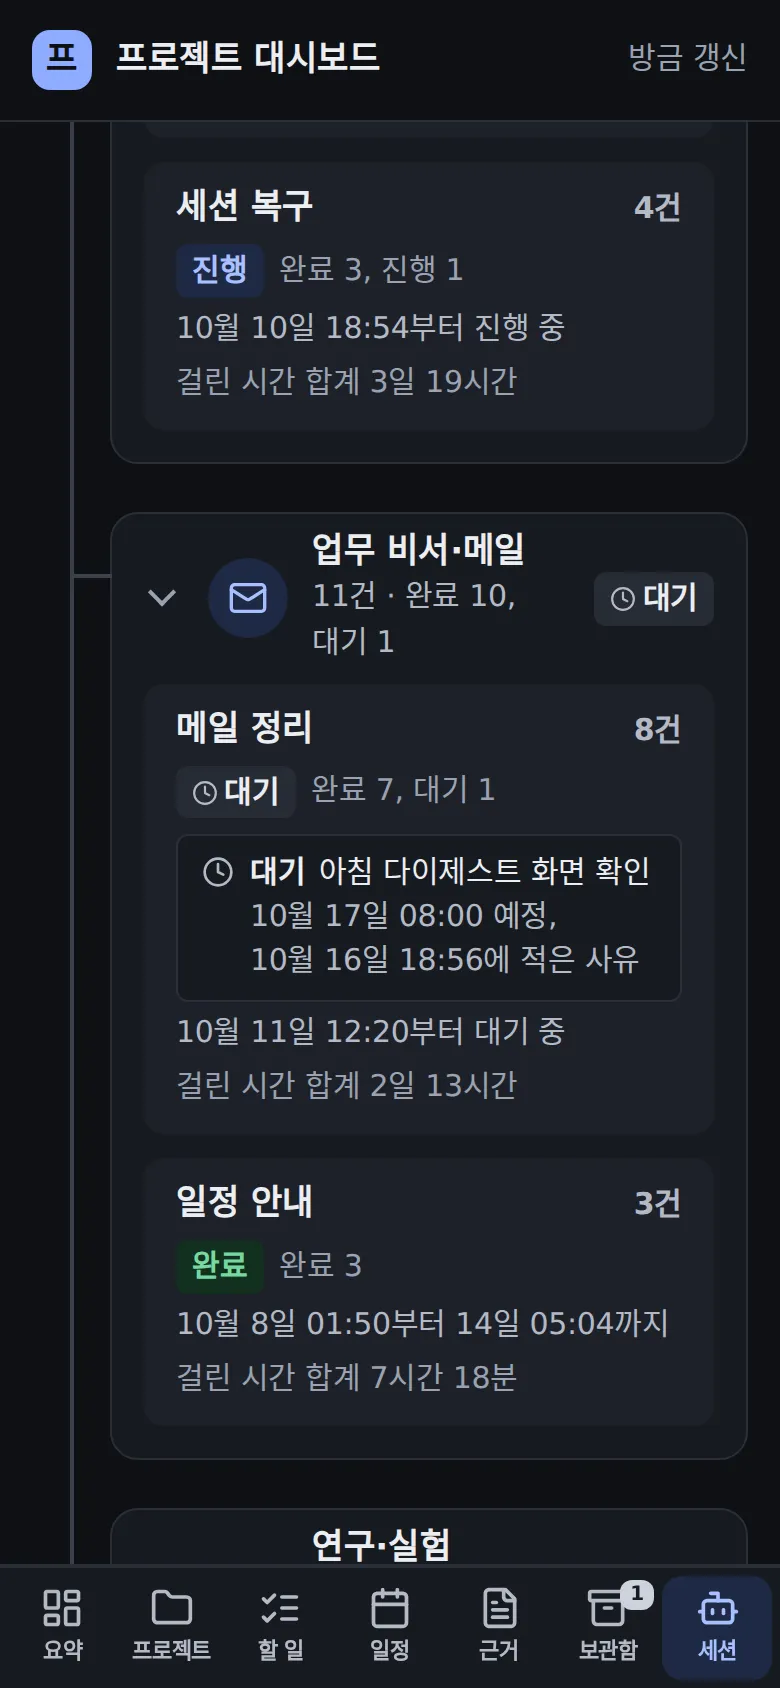
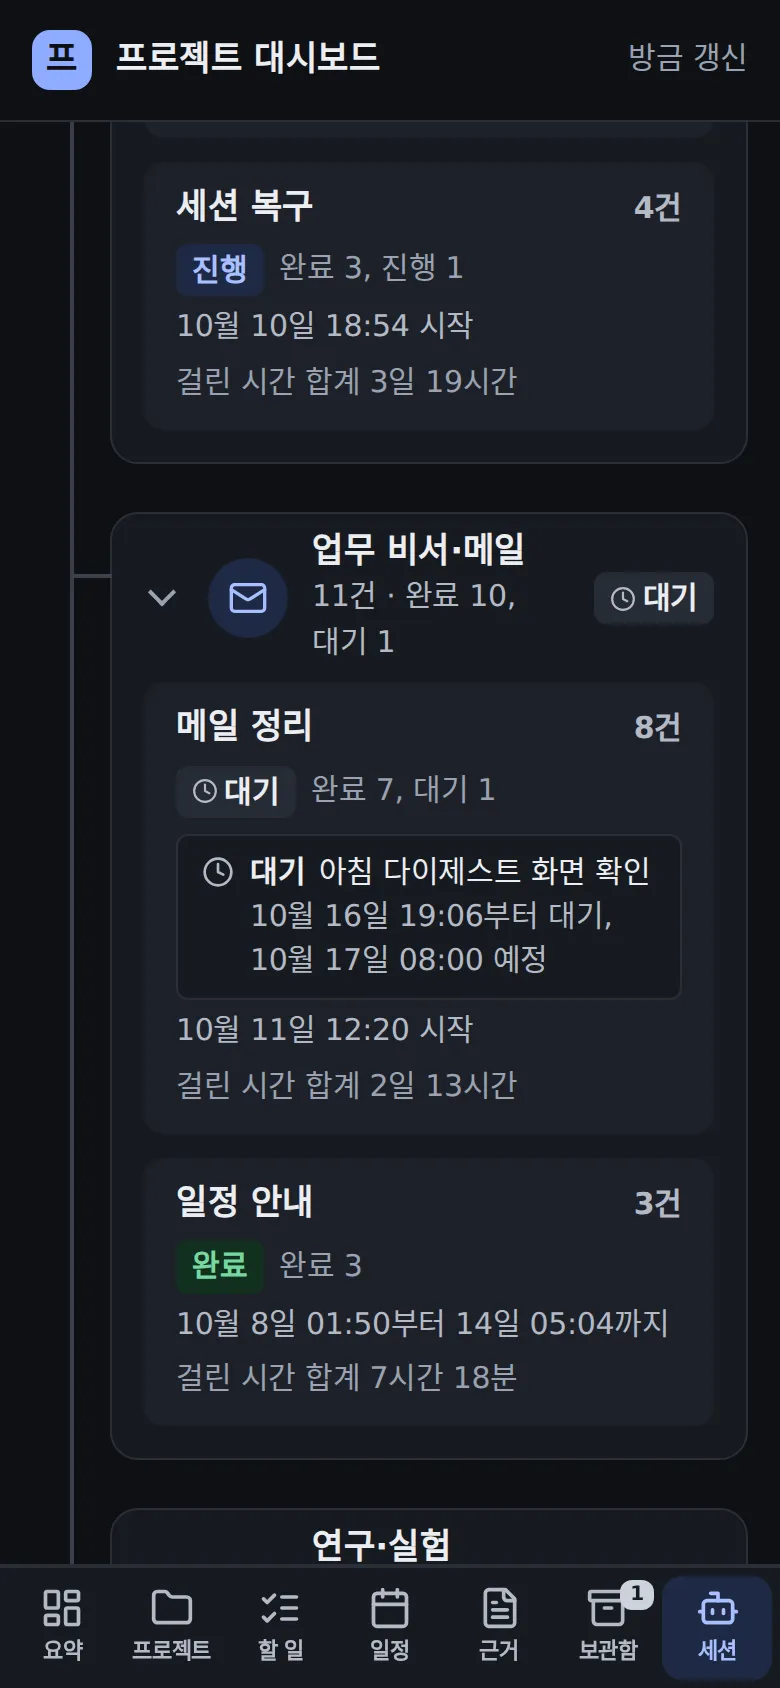
docs(project-board): the 세션 tab group line is a start time, the wait note says since when; captures retaken

diff --git a/docs/기능소개/세션-탭-대기와-막힘.md b/docs/기능소개/세션-탭-대기와-막힘.md
@@ -2,7 +2,8 @@
 
 ## 무엇을
 대시보드 세션 탭에서 사람이나 정해진 시각을 기다리며 쉬어 둔 작업 레인을 「멈춤」이 아니라 **「대기」**(시계 아이콘, 중립색)로 보여 준다.
-그 레인이 든 카드에는 무엇을 언제 기다리는지 한 줄이 붙는다. 예: 「대기 아침 다이제스트 화면 확인 · 10월 17일 08:00 예정, 10월 16일 18:56에 적은 사유」.
+그 레인이 든 카드에는 무엇을 언제 기다리는지 한 줄이 붙는다. 예: 「대기 아침 다이제스트 화면 확인 · 10월 16일 18:56부터 대기, 10월 17일 08:00 예정」.
+카드의 기간 줄은 상태 말 없이 「10월 11일 12:20 시작」처럼 묶음이 언제 시작했는지만 말한다.
 작업 창이 오류나 입력 대기로 멈췄거나 꺼진 레인만 **「막힘」**(빨강)이고, 그 이유도 한 줄로 붙는다.
 묶음 머리와 개요의 건수도 「완료 12, 대기 1」, 「막힘 1」로 따로 센다.
 
@@ -20,9 +21,10 @@
 
 ## 사용 시나리오
 - 레인이 다음 날 08:06 다이제스트 확인을 기다리며 쉬고 있다. 세션 탭을 열면 「업무 비서·메일」 묶음 머리에 시계와 「대기」가 있다.
-  펼치면 「메일 정리·전달」 카드에 「대기 기관메일 다이제스트 라이브 확인 · 10월 17일 08:06 예정, 10월 16일 21:57에 적은 사유」가 보인다.
-  카드의 기간 줄은 「…부터 대기 중」이다.
-- 예정 시각이 지나도 레인이 그대로면 그 줄에 「시각 지남」이 붙는다. 사유가 오래돼 지금과 다를 수 있으니 사유를 적은 시각도 함께 나온다.
+  펼치면 「메일 정리·전달」 카드에 「대기 기관메일 다이제스트 라이브 확인 · 10월 16일 21:57부터 대기, 10월 17일 08:06 예정」이 보인다.
+  카드의 기간 줄은 「10월 12일 09:12 시작」이라, 그때부터 기다린 것처럼 읽히지 않는다.
+- 예정 시각이 지나도 레인이 그대로면 그 줄에 「시각 지남」이 붙는다. 「…부터 대기」는 그 사유를 적고 쉬어 둔 시각이라, 사유가 오래돼
+  지금과 다를 수 있음도 그 시각으로 알 수 있다.
 - 영어로 적은 사유는 정해진 한국어 문구로 바뀐다: 「소유자 승인(✅), v1.40.0 릴리스 카드」, 「소유자 결정, 질문 Q12」, 「소유자 지시로 보류」.
 - 작업 창이 오류로 멈추면 그 묶음 머리가 빨간 「막힘」이 되고 카드에 「막힘 작업 창이 오류로 멈췄습니다」가 붙는다.
   자기 감시를 기다리며 턴을 끝낸 레인은 막힘이 아니라 진행이다.

diff --git a/docs/guide/프로젝트-대시보드.md b/docs/guide/프로젝트-대시보드.md
@@ -200,8 +200,10 @@ MailOn 런타임의 `data/` 는 배포본에서 공유 상태 디렉터리(`mail
 줄지 않으며, 갈래마다 분야·플랫폼·서비스 묶음이 접힌 카드(머리 52px)로 시작하고 머리에 건수와 상태 글자가 이미 있다.
 상태는 다른 탭과 같은 배지(완료 초록·진행 파랑·미완 빨강·확인 대기 테두리)이고, 레인에는 둘이 더 있다(2026-10-16 소유자
 지적 「왜 멈춤으로 되어 있어?」). 사람이나 정해진 시각을 기다리며 쉬어 둔 레인(dori `paused`)은 **대기** — 시계 아이콘의 중립색
-배지이고 문제가 아니다 — 이며, 그 레인이 든 카드 안에 한 줄씩 「대기 아침 다이제스트 화면 확인 · 10월 17일 08:00 예정, 10월
-16일 18:56에 적은 사유」처럼 무엇을·언제까지 기다리는지와 그 사유를 적은 시각이 붙는다(사유가 오래돼 지금과 다를 수 있어서다).
+배지이고 문제가 아니다 — 이며, 그 레인이 든 카드 안에 한 줄씩 「대기 아침 다이제스트 화면 확인 · 10월 16일 18:56부터 대기,
+10월 17일 08:00 예정」처럼 무엇을·언제부터·언제까지 기다리는지가 붙는다. 「부터」는 그 사유를 적고 쉬어 둔 시각이다(사유가
+오래돼 지금과 다를 수 있어서다). 카드의 기간 줄은 상태 말 없이 시각만 말한다 — 열린 묶음은 「10월 11일 12:20 시작」, 다 끝난 묶음은
+「…부터 …까지」. 묶음 시작 시각에 「대기 중」을 붙이면 그때부터 기다린 것처럼 읽힌다.
 작업 창이 오류·입력 대기·질문으로 멈췄거나 꺼진 레인만 **막힘**(빨강)이고 「막힘 작업 창이 오류로 멈췄습니다」 한 줄이 붙는다.
 묶음 머리와 개요의 건수도 「대기 N」·「막힘 N」으로 따로 센다. 서비스의 「멈춤」(유닛이 내려간 감시)은 그대로다. 위에 「10월 16일 18:28 기준, 4분 전에 받은
 집계입니다」가 있고 45분 넘게 새 집계가 오지 않으면 그 이유를 짐작할 수 있는 안내가 붙는다. 요약 화면 타일 아래에는 「작업 컴퓨터
